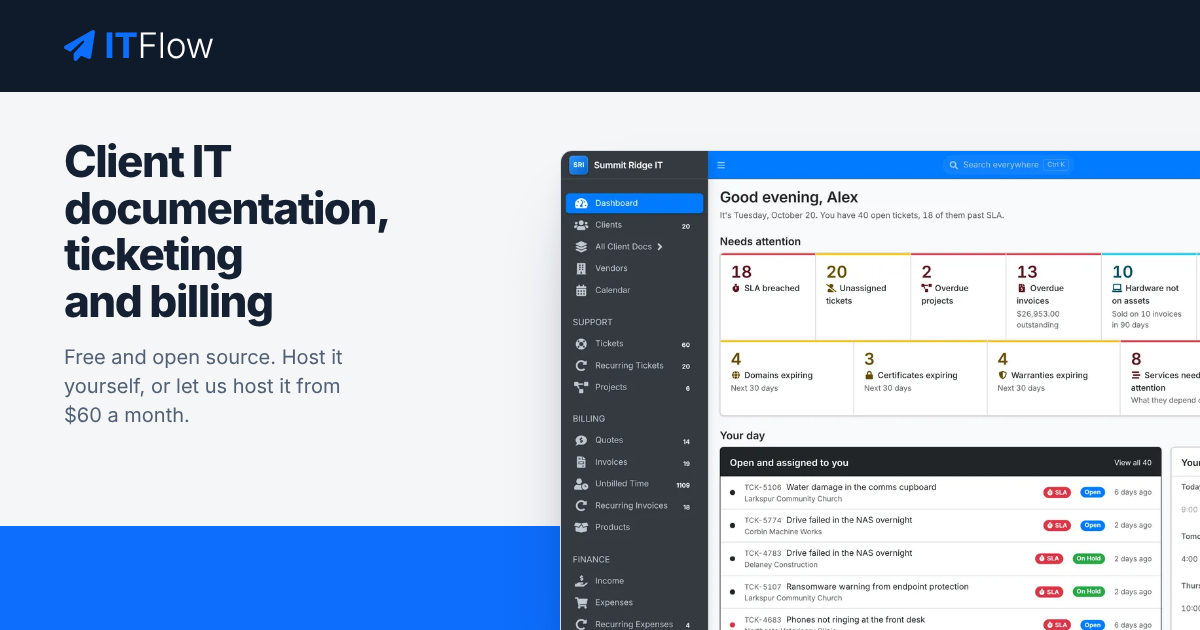
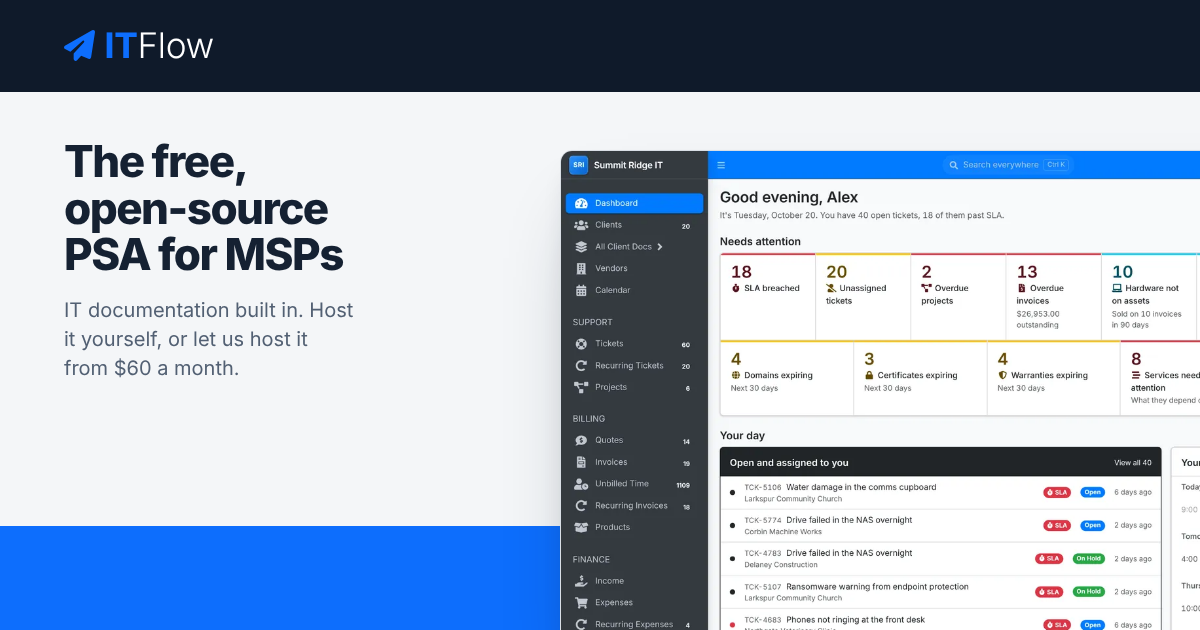
Update wording

Changed region(s): [[0.0308, 0.2111, 0.3392, 0.6635]]

diff --git a/tools/og.html b/tools/og.html
@@ -19,8 +19,8 @@ body { width: 1200px; height: 630px; overflow: hidden; margin: 0; }
 <div class="og">
   <div class="bar"><span class="logo"><i class="fas fa-paper-plane logo-plane"></i><span class="logo-it">IT</span><span class="logo-flow">Flow</span></span></div>
   <div class="text">
-    <h1>Client IT documentation, ticketing and billing</h1>
-    <p>Free and open source. Host it yourself, or let us host it from $60 a month.</p>
+    <h1>The free, open-source PSA for MSPs</h1>
+    <p>IT documentation built in. Host it yourself, or let us host it from $60 a month.</p>
   </div>
   <div class="band"></div>
   <div class="screen"><img src="/assets/img/shots/dashboard-light-1280.webp" alt=""></div>

diff --git a/config.php b/config.php
@@ -39,8 +39,8 @@ $sections = [
 $site = [
     'name'        => 'ITFlow',
     'url'         => 'https://itflow.org',
-    'title'       => 'ITFlow - IT documentation, ticketing and billing for MSPs',
-    'description' => 'ITFlow is free, open-source client IT documentation, ticketing, billing and accounting for MSPs. Host it yourself, or let us host it.',
+    'title'       => 'ITFlow - The free, open-source PSA for MSPs',
+    'description' => 'ITFlow is the free, open-source PSA for MSPs, with IT documentation built in: ticketing, client documentation, contracts, billing and accounting in one place. Host it yourself, or let us host it.',
     'demo_url'    => 'https://demo.itflow.org',
     'install_url' => 'https://docs.itflow.org/installation',
     'docs_url'    => 'https://docs.itflow.org',
@@ -72,8 +72,8 @@ $nav = [
 // ---------------------------------------------------------------------------
 $hero = [
     'tag'     => 'Free and open source',
-    'heading' => 'Client IT documentation, ticketing and billing',
-    'text'    => 'Everything about your clients, their tickets and their invoices, in one place. Built for MSPs by people who run one. Host it yourself for free, or let us host it for you.',
+    'heading' => 'The PSA with IT documentation built in',
+    'text'    => 'Tickets, client documentation, contracts and billing for your MSP, in one place, with a portal for your clients. Built by people who run an MSP. Host it yourself for free, or let us host it for you.',
     'buttons' => [
         ['label' => 'Try the demo', 'href' => 'https://demo.itflow.org', 'style' => 'primary'],
         ['label' => 'Get started',  'href' => '#start',                  'style' => 'secondary'],
@@ -95,11 +95,11 @@ $hero = [
 // ---------------------------------------------------------------------------
 $features = [
     'heading' => 'Everything an MSP runs on',
-    'text'    => 'Documentation, tickets, billing and the books share one database, so each part knows what the others know.',
+    'text'    => 'Your PSA and your IT documentation in one: tickets, client documentation, billing and the books share one database, so each part knows what the others know.',
     'items'   => [
         ['icon' => 'fas fa-book',                'title' => 'Client documentation', 'text' => 'Contacts, locations, assets, networks, licenses, domains and documents, organized by client and linked together.'],
         ['icon' => 'fas fa-life-ring',           'title' => 'Support tickets',      'text' => 'Email to ticket, priorities, SLAs with business hours, templates, recurring tickets and a board view.'],
-        ['icon' => 'fas fa-file-invoice-dollar', 'title' => 'Invoicing',            'text' => 'Quotes, invoices and recurring invoices, with reminders, statements and online payment through Stripe.'],
+        ['icon' => 'fas fa-file-invoice-dollar', 'title' => 'Contracts and billing', 'text' => 'Contracts signed online, with prepaid hours and SLAs. Quotes, invoices and recurring invoices, paid online through Stripe.'],
         ['icon' => 'fas fa-key',                 'title' => 'Password management',  'text' => 'An encrypted vault for client passwords, with 2FA codes, rotation reminders and secure share links.'],
         ['icon' => 'fas fa-users',               'title' => 'Client portal',        'text' => 'Clients open and follow their tickets, see invoices and quotes, pay online and look up their devices.'],
         ['icon' => 'fas fa-scale-balanced',      'title' => 'Accounting',           'text' => 'Income, expenses, bank accounts and reconciliation, budgets, and profit and loss.'],
@@ -234,7 +234,7 @@ $sponsors_section = [
     // while that is open, and 'url' while it isn't. Leave out to show no such tile.
     'join'          => ['title' => 'Your logo here', 'text' => 'Become a premier sponsor', 'url' => 'https://services.itflow.org'],
     'tiers_heading' => 'Sponsor ITFlow',
-    'tiers_text'    => 'Back the software your MSP runs on, and put your name in front of the people who use it.',
+    'tiers_text'    => 'Back the PSA your MSP runs on, and put your name in front of the people who use it.',
     'button'        => 'Become a sponsor',
 ];
 
@@ -245,11 +245,11 @@ $timeline = [
     'heading' => 'Built inside a working MSP',
     'text'    => 'ITFlow started as the tool one MSP needed and couldn\'t find. It is still built by people who use it every day.',
     'entries' => [
-        ['date' => '2018',         'title' => 'An open-source MSP', 'text' => 'An MSP built on open-source software needs a system to run on, and starts writing ITFlow.'],
+        ['date' => '2018',         'title' => 'An open-source MSP', 'text' => 'An MSP built on open-source software needs a PSA to run on, and starts writing ITFlow.'],
         ['date' => 'March 2019',   'title' => 'On GitHub',          'text' => 'The code is published for anyone to use, change and improve.'],
         ['date' => 'May 2021',     'title' => 'The team grows',     'text' => 'Marcus and Andrei join the development team.'],
         ['date' => 'January 2025', 'title' => 'Stable releases',    'text' => 'ITFlow moves to regular stable releases.'],
-        ['date' => 'October 2026', 'title' => 'ITFlow neXt',        'text' => 'ITFlow completey redesigned!'],
+        ['date' => 'October 2026', 'title' => 'ITFlow neXt',        'text' => 'ITFlow completely redesigned!'],
     ],
 ];
 
@@ -286,7 +286,7 @@ $team = [
 // Footer
 // ---------------------------------------------------------------------------
 $footer = [
-    'text'   => 'Free, open-source documentation, ticketing and billing for MSPs. Licensed under the AGPL-3.0.',
+    'text'   => 'The free, open-source PSA for MSPs, with IT documentation built in. Licensed under the AGPL-3.0.',
     'social' => [
         ['icon' => 'fab fa-github',  'href' => 'https://github.com/itflow-org/itflow#readme',     'label' => 'GitHub'],
         ['icon' => 'fab fa-youtube', 'href' => 'https://www.youtube.com/@wrongecho5029/featured', 'label' => 'YouTube'],

diff --git a/README.md b/README.md
@@ -88,7 +88,7 @@ python3 tools/webp.py that-folder
 
 It writes both widths into `assets/img/shots/` and trims the scrollbar off the edge. It needs Python 3 and Pillow.
 
-`assets/img/og.png` is the picture shown when a link to the site is shared (1200 x 630). It mentions the $60 price, so make it again if that changes: `tools/og.html` is its source - open it on the site in a 1200 x 630 browser window and save a screenshot over `og.png`.
+`assets/img/og.png` is the picture shown when a link to the site is shared (1200 x 630). It mentions the $60 price, so make it again if that changes, or if the headline does: `tools/og.html` is its source - open it on the site in a 1200 x 630 browser window and save a screenshot over `og.png`.
 
 ## Sign-ups straight into ITFlow
 
